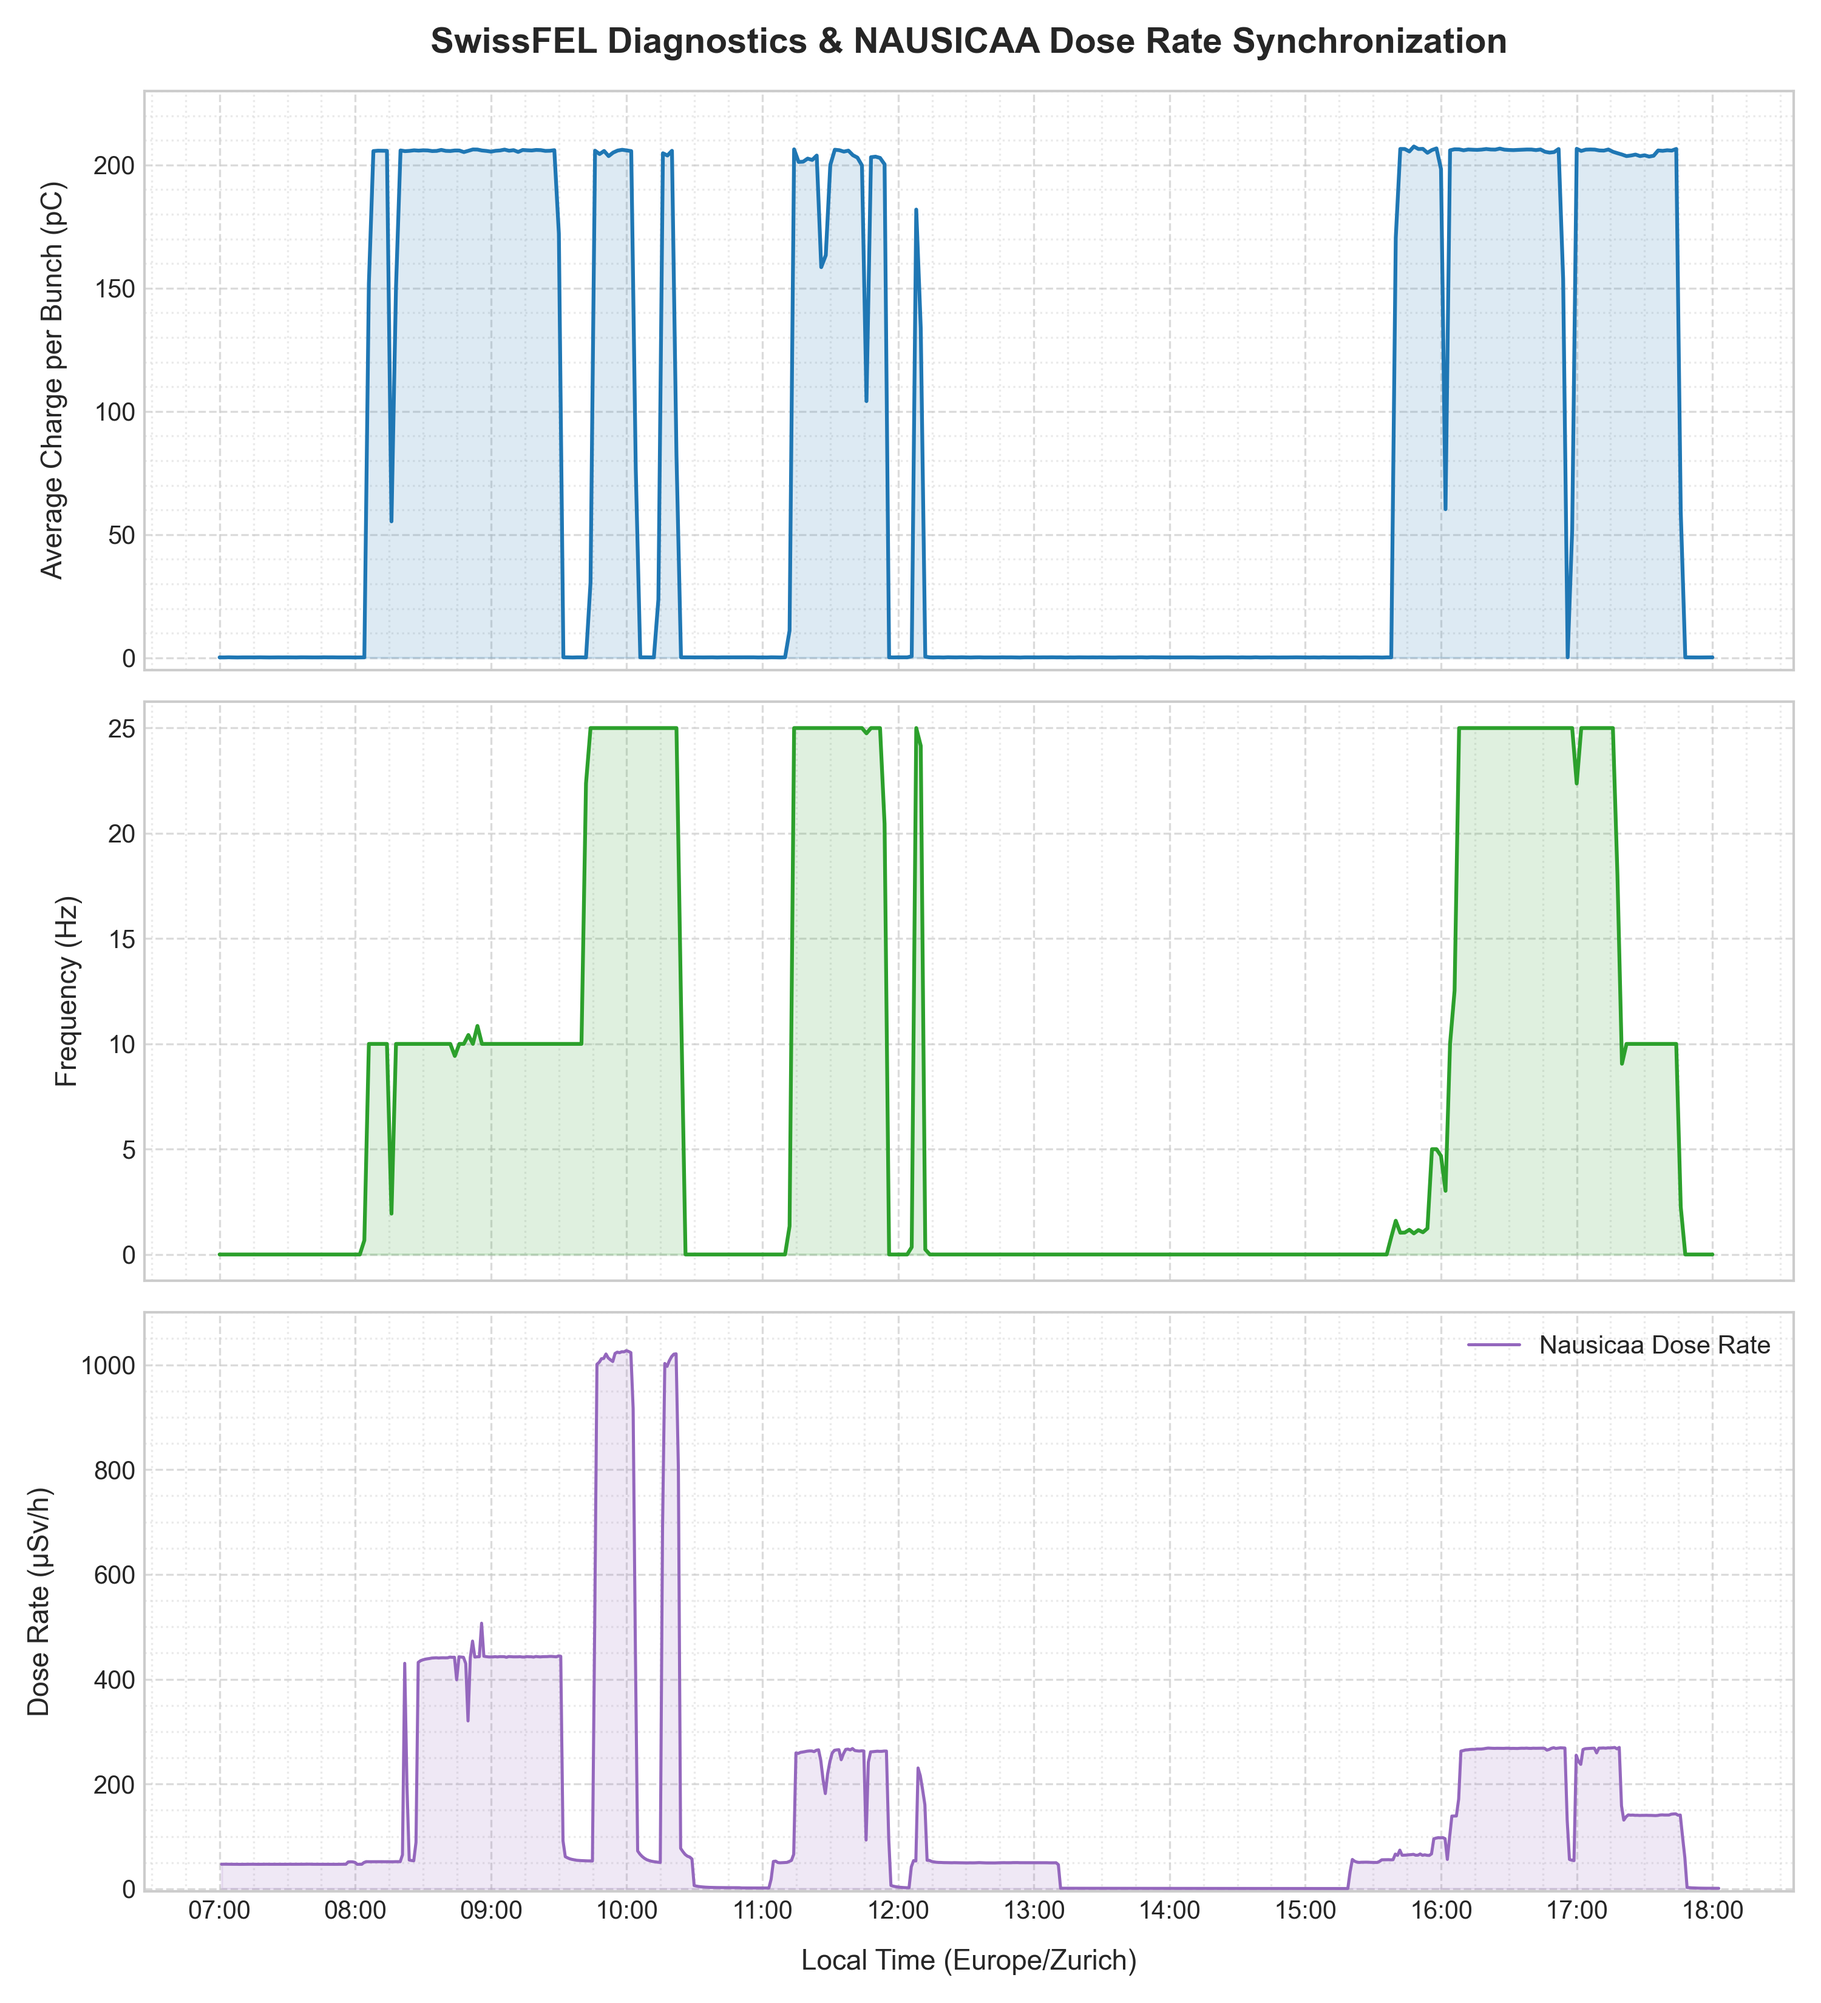
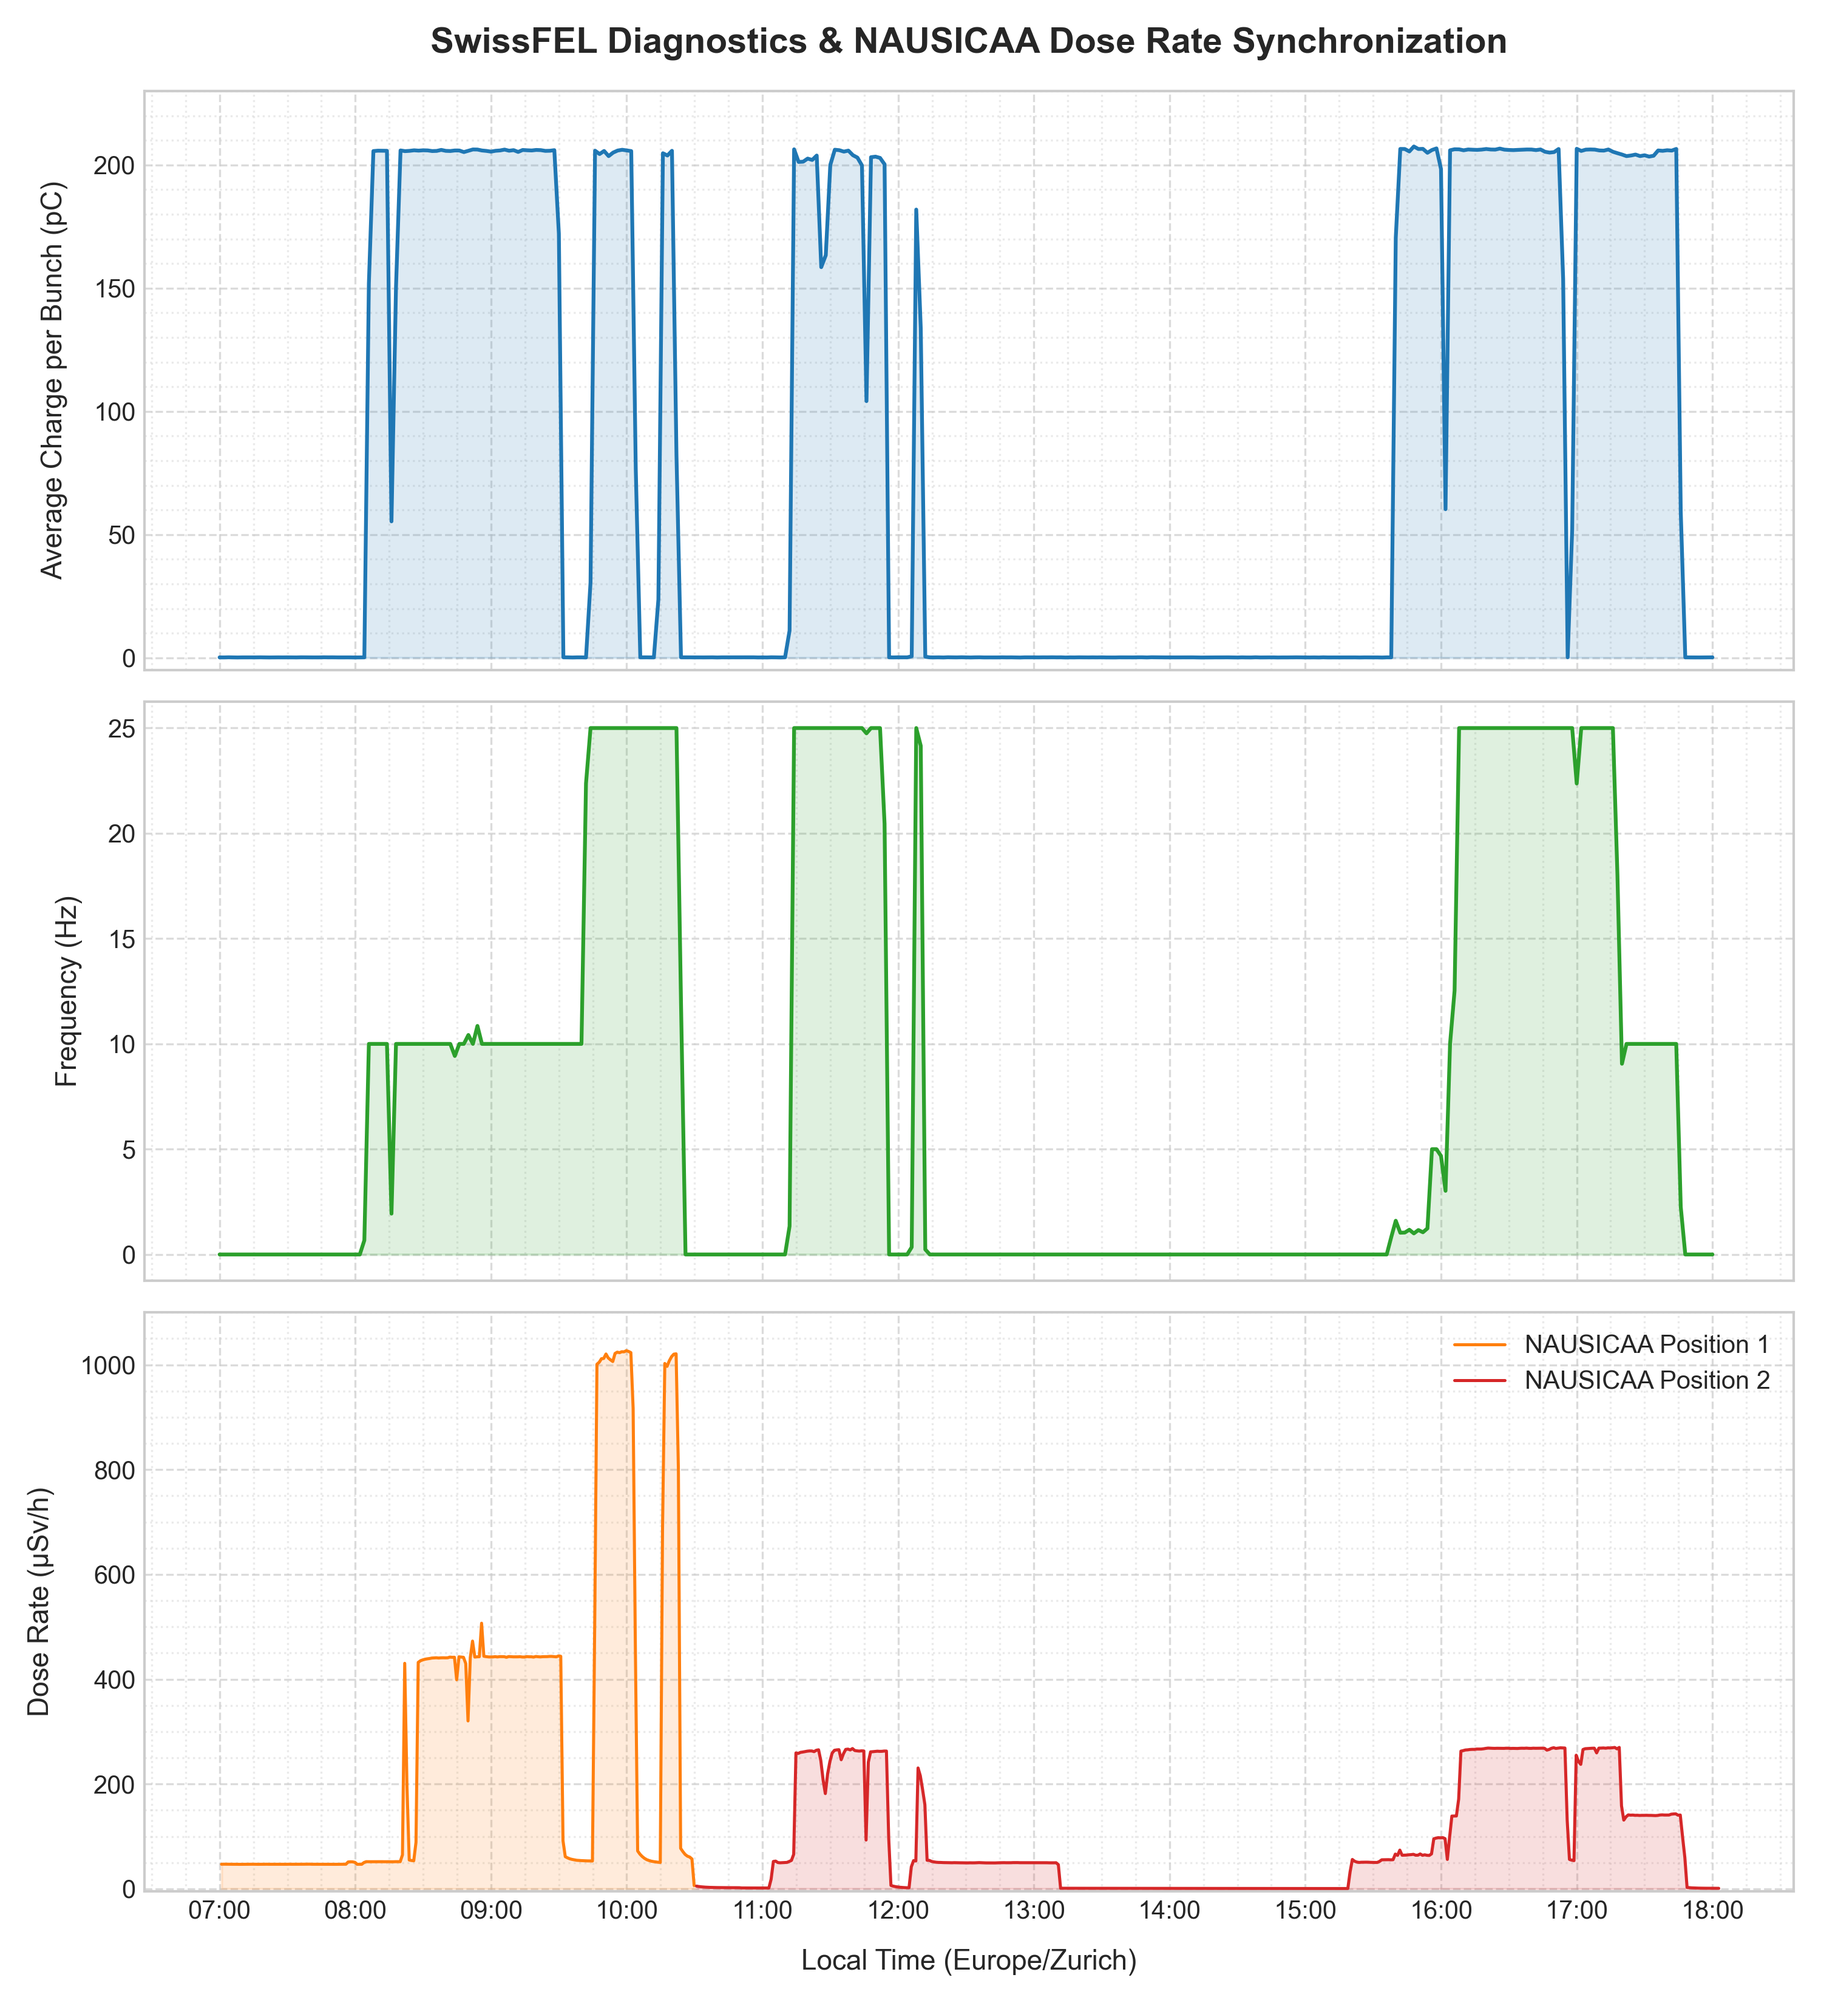
Divide NAUSICAA data into two time series
The NAUSICAA detector was moved during the data taking. This commit
divided the data analysis into two locations.

diff --git a/SwissFEL25/MultiDetectorAnalysis.py b/SwissFEL25/MultiDetectorAnalysis.py
@@ -242,7 +242,7 @@ def analyze_and_plot_detector(df_det, df_mach, detector_name, dose_col, threshol
                     print(f"    Baseline ({baseline_range[0]}-{baseline_range[1]})               : {baseline_value:.3f} µSv/h")
                     # Assuming negligible error on the baseline, using active beam SEM only
                     print(f"    Net Mean Dose Rate (Mean-Baseline)  : {net_dose:.3f} ± {sem_dose:.3f} µSv/h (SEM)")
-                # -------------------------------------------------       
+                # -------------------------------------------------        
                 
                 print(f"    Median Dose Rate (Robust Peak)      : {median_dose:.3f} µSv/h")
                 print(f"    Data Standard Deviation (σ)         : {std_dose:.3f} µSv/h")
@@ -336,6 +336,12 @@ if __name__ == "__main__":
     # -------------------------------------------------------------------------
     print("\n[*] Processing NAUSICAA detector...")
     try:
+        # Define sequential experimental configurations for NAUSICAA
+        nausicaa_position_splits = [
+            {"name": "NAUSICAA Position 1", "time_boundary": "10:30", "color": "#ff7f0e"}, # From 07:00 up to 10:30 (Orange)
+            {"name": "NAUSICAA Position 2", "time_boundary": None,    "color": "#d62728"}  # From 10:30 to end of log (Red)
+        ]
+
         # Define the list of files to merge
         nausicaa_files = [
             "NAUSICAA_data/20250630",
@@ -354,7 +360,7 @@ if __name__ == "__main__":
             dose_col="Dose rate (uSv/h)",
             threshold=10.0,      # Adapt threshold to NAUSICAA background
             ylim_plot=(-5, 1100),# Adapt plot scale to NAUSICAA peaks
-            splits=None          # Add splits here if you moved this detector too
+            splits=nausicaa_position_splits  # Applied the position split configurations here
         )
     except Exception as e:
         print(f"[-] Failed to process NAUSICAA data: {e}")
